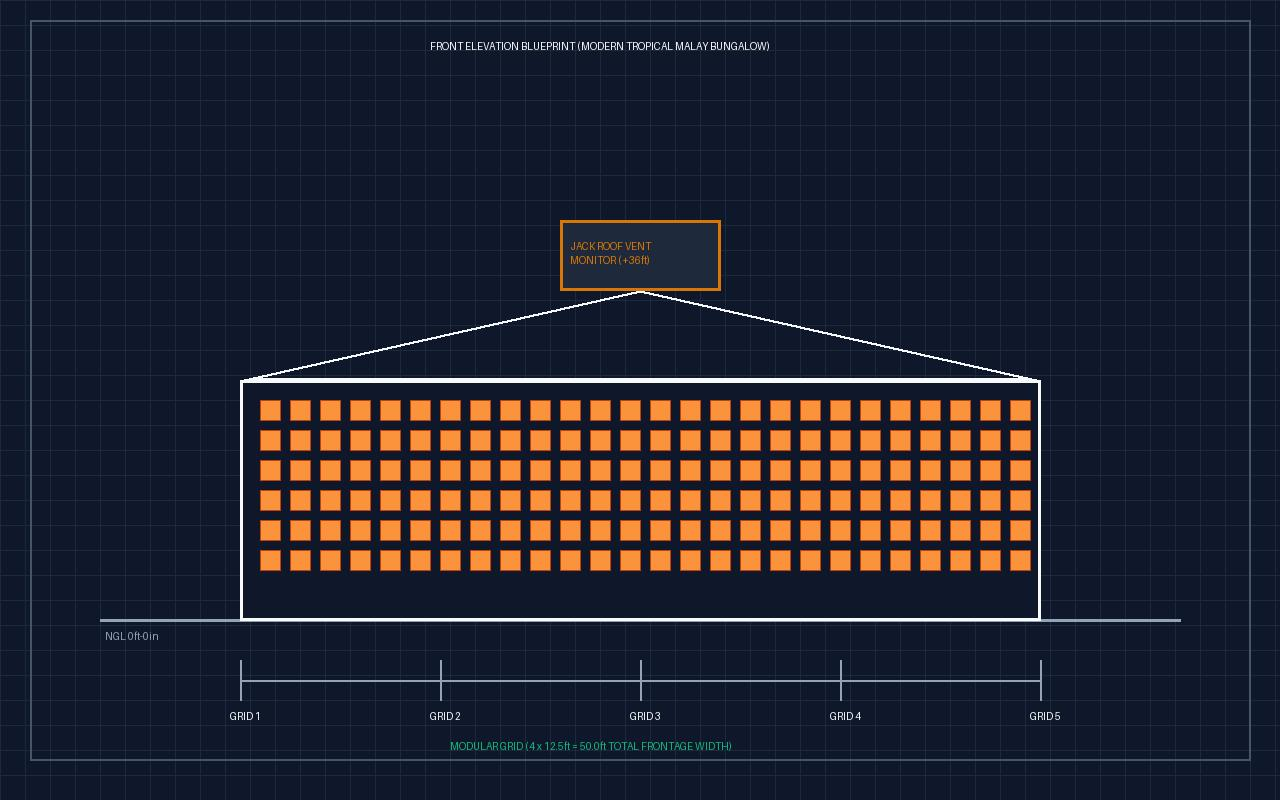
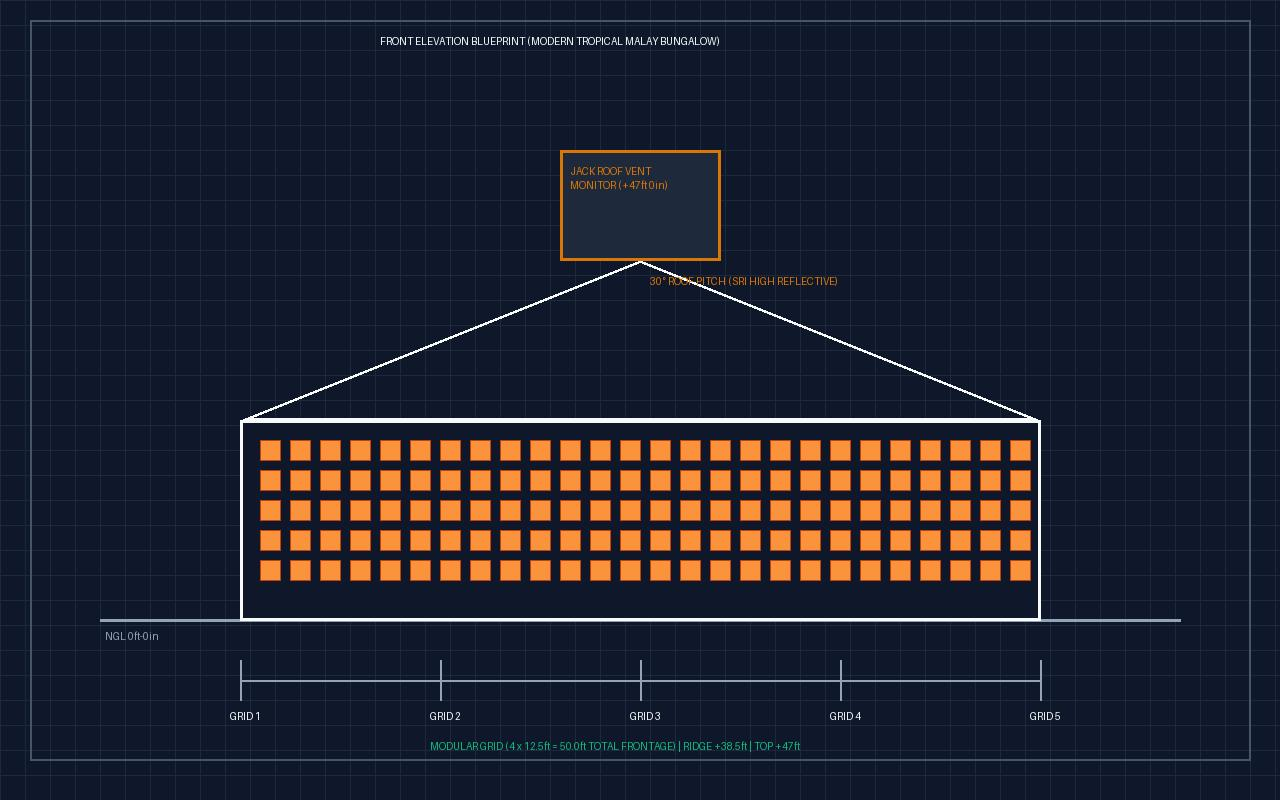
Fix 30-degree roof pitch geometry height on elevation and clarify Mezzanine clearance

diff --git a/index.html b/index.html
@@ -177,7 +177,7 @@
           <div class="timeline-item">
             <div class="timeline-badge">STAGE 03</div>
             <h4>H-Beam 柱网与 900sqft Mezzanine 阁楼</h4>
-            <p>立 150mm×150mm H-beam 钢柱，铺设 Bondek 钢承板搭建二层 Loft 办公平台。</p>
+            <p>立 150mm×150mm H-beam 钢柱，在后区 35ft 高顶钢构区（檐高 24ft）铺设 Bondek 钢承板搭建二层 Loft 办公平台（一楼/二楼净高各 11ft）。</p>
           </div>
           <div class="timeline-item">
             <div class="timeline-badge">STAGE 04</div>